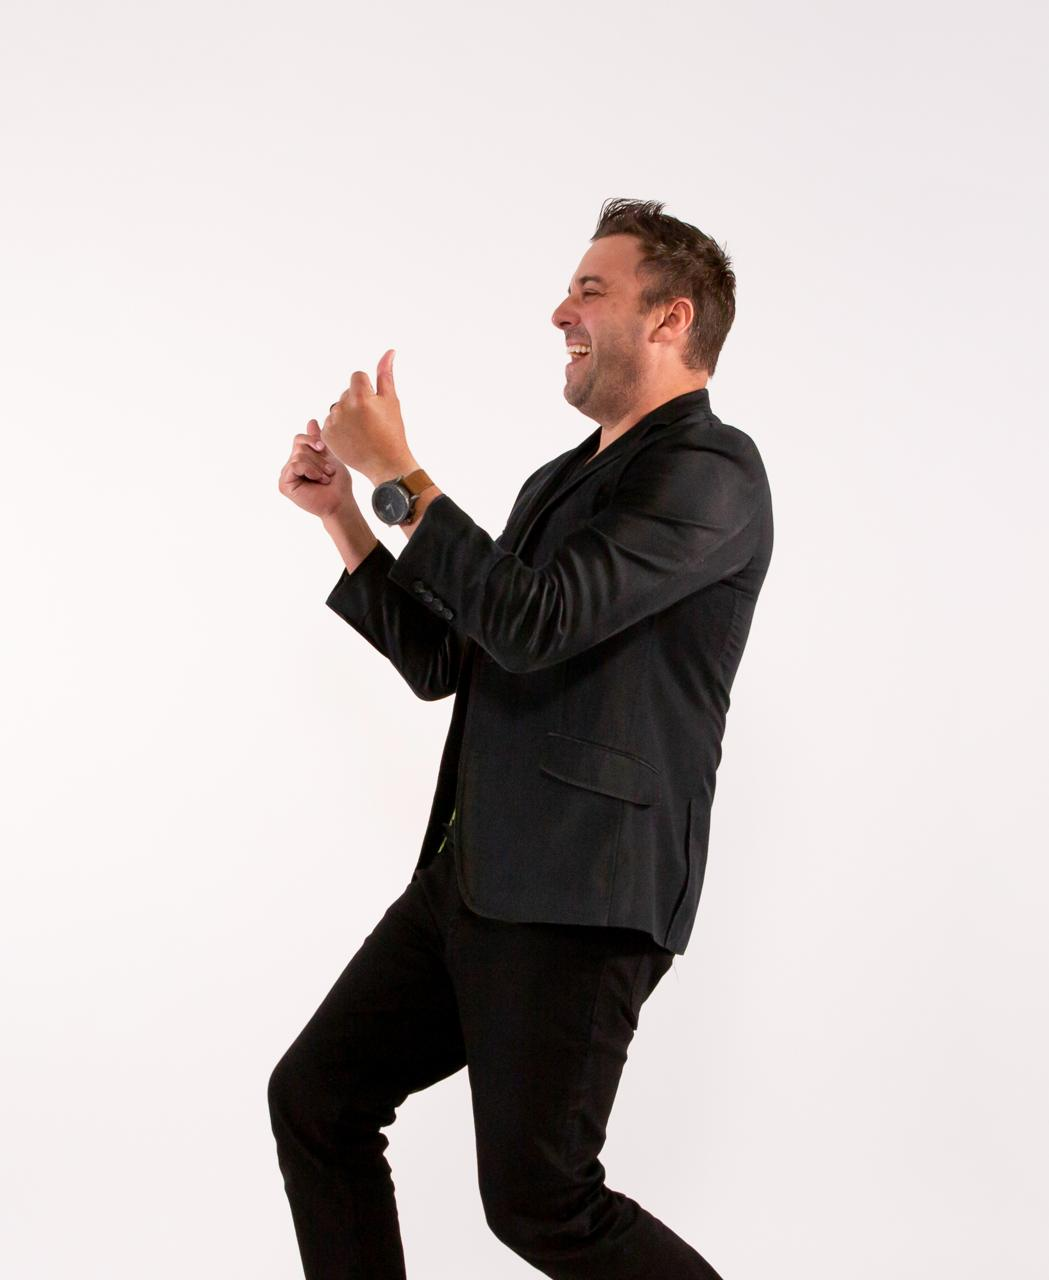
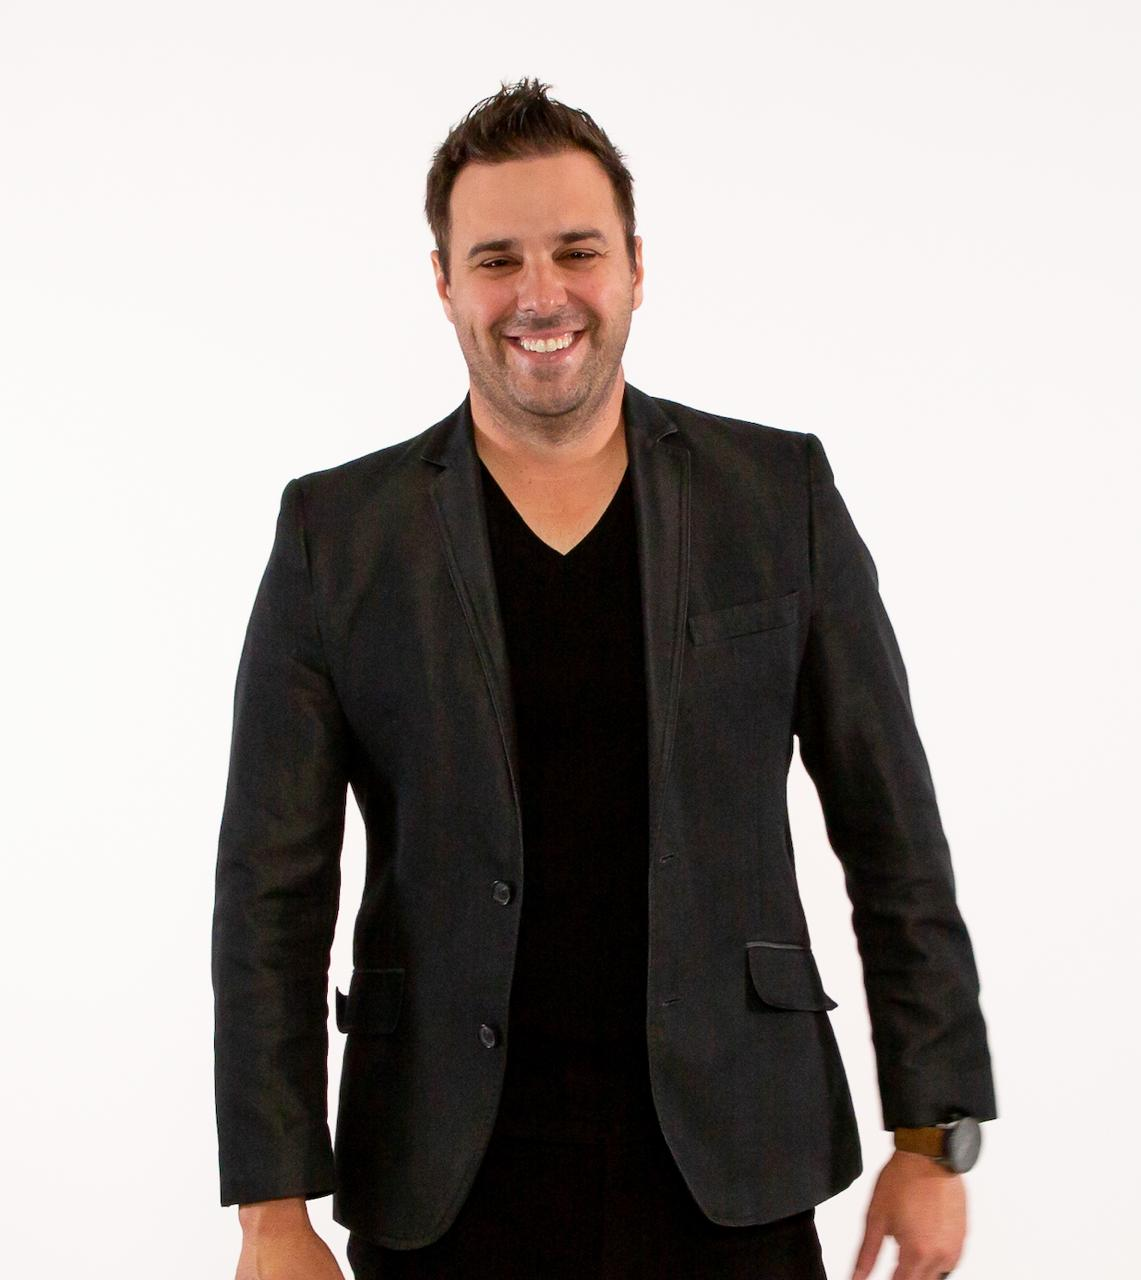
Hero: swap to studio portrait photo

diff --git a/index.html b/index.html
@@ -375,7 +375,7 @@
       width: 100%;
       border-radius: var(--radius-lg);
       object-fit: cover;
-      object-position: center top;
+      object-position: center 20%;
       aspect-ratio: 4/5;
       box-shadow:
         0 2px 0 rgba(255,255,255,0.8) inset,
@@ -1192,7 +1192,7 @@
         <div class="hero-photo fade-up delay-2">
           <img
             src="hero-team.jpg"
-            alt="Justin Nassie in the Brandastic office"
+            alt="Justin Nassie, Fractional CMO"
             loading="eager"
           />
           <div class="hero-photo-caption">